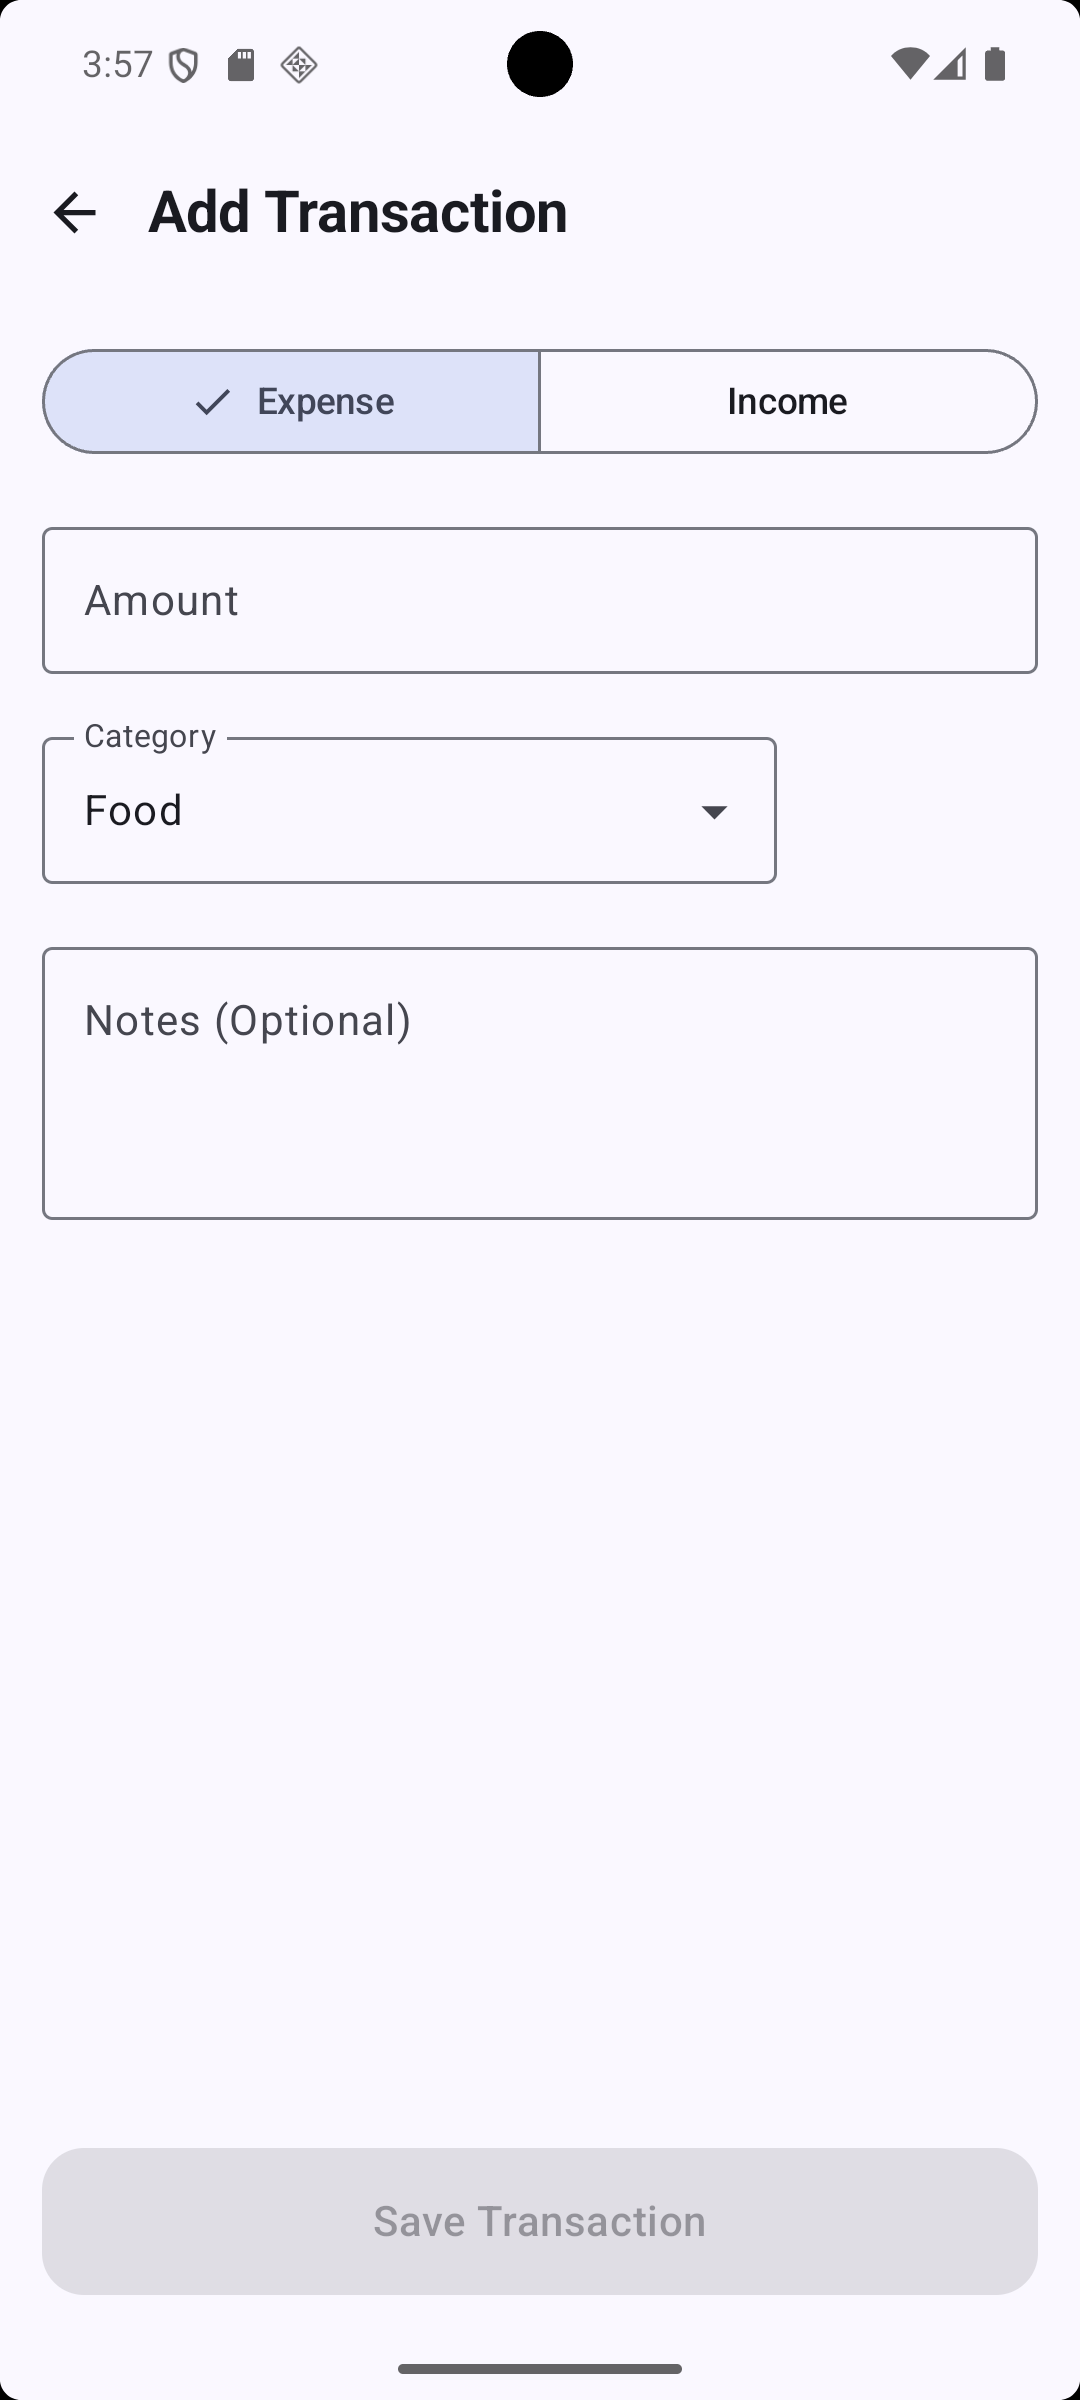
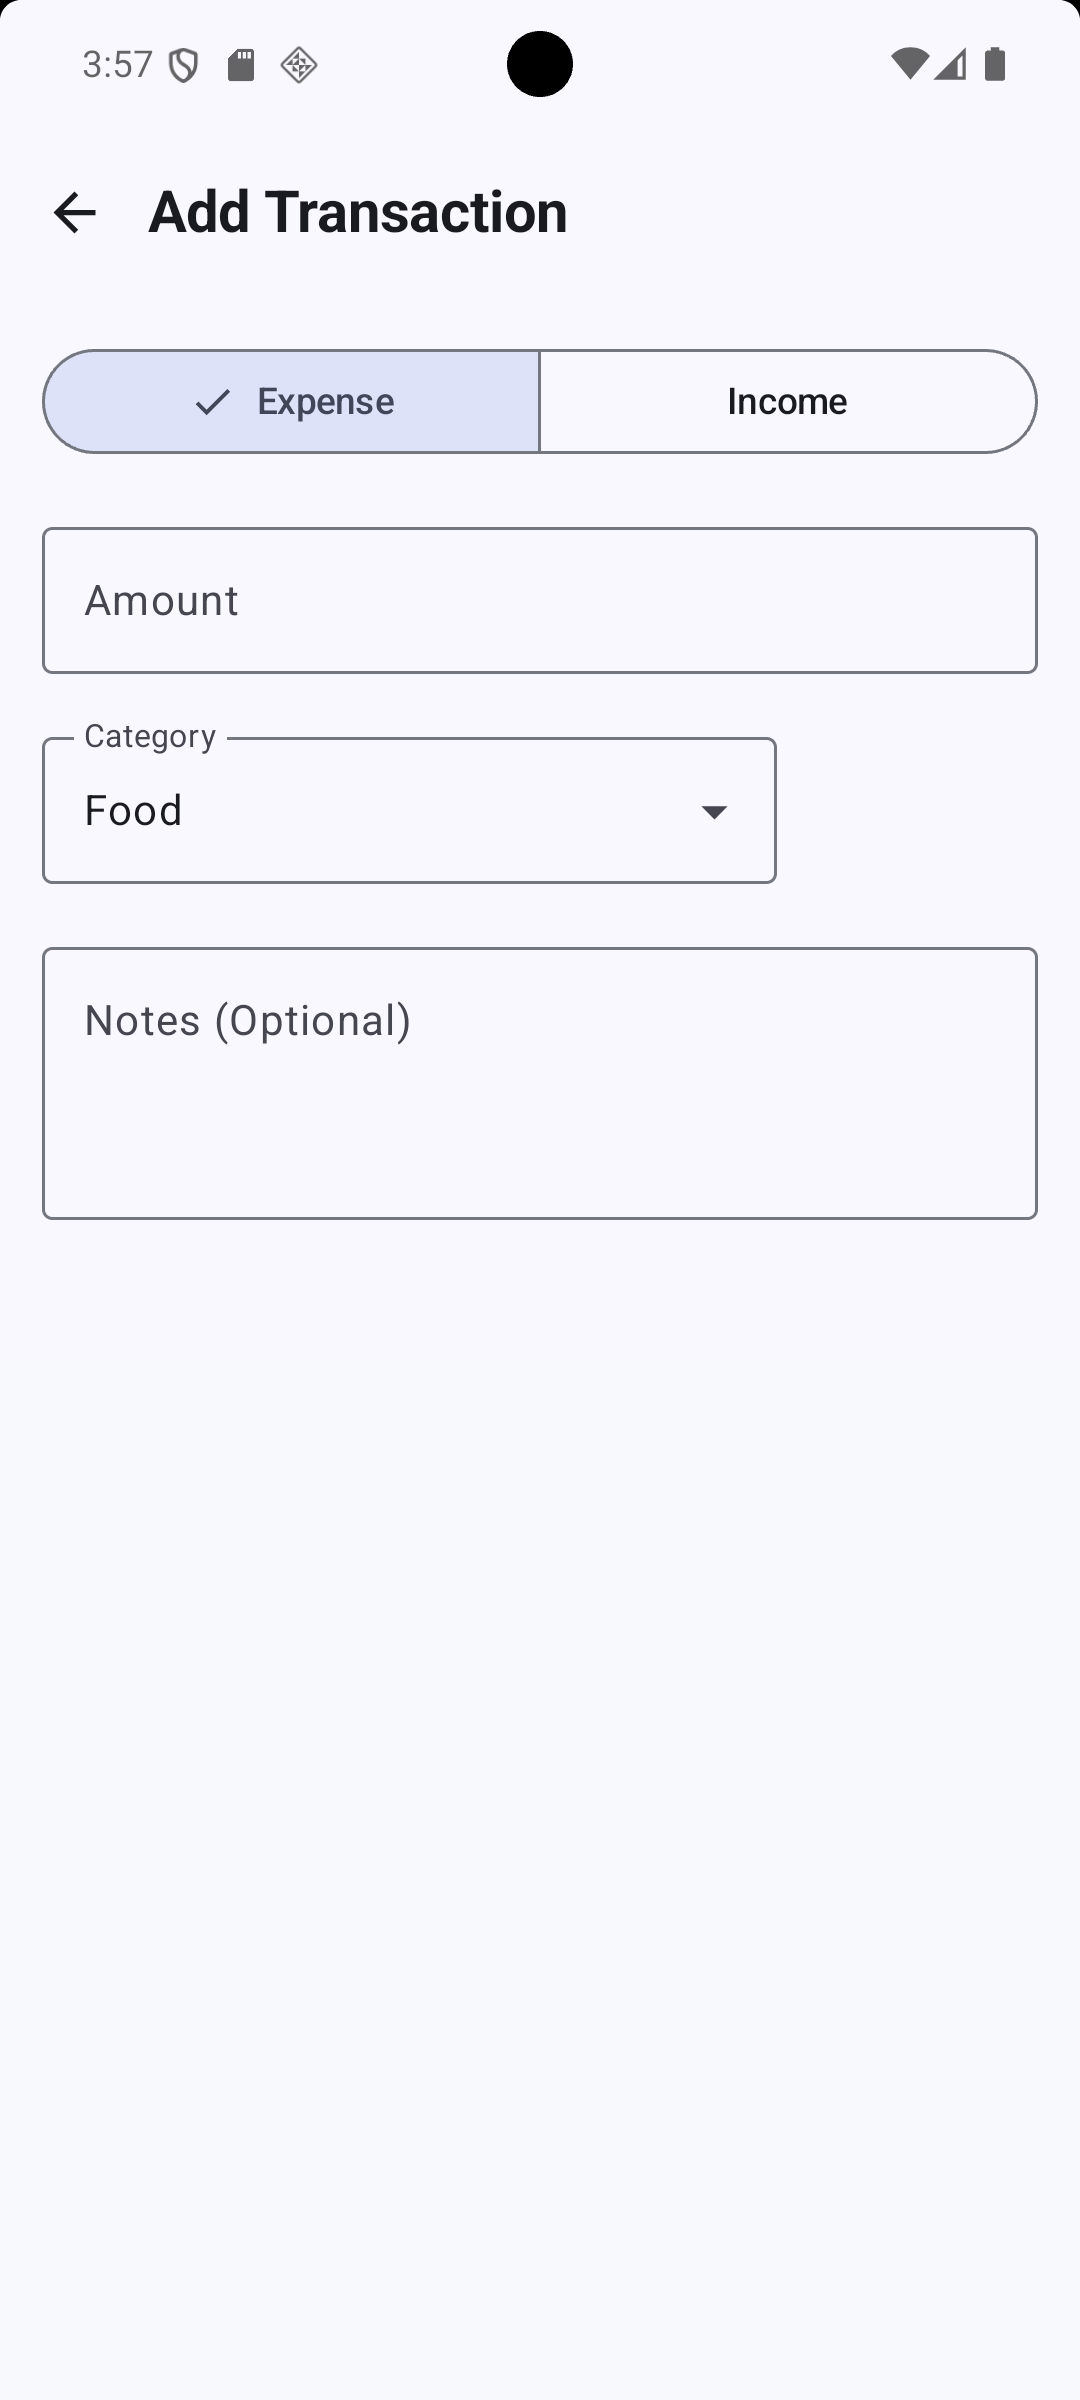
Fix README screenshot sizing and add demo GIF
- Crop empty space from add/edit and view-all screenshots (no stretch)

- Show screenshots with equal width in README

- Convert flowfidemo.webm to flowfidemo.gif for inline demo

Changed region(s): [[0.0306, 0.875, 0.9778, 1.0]]

diff --git a/README.md b/README.md
@@ -13,16 +13,25 @@ A fast, Material 3 personal finance app for tracking income and expenses. Built 
 
 ## Demo
 
-Watch the full walkthrough: **[flowfidemo.webm](docs/media/flowfidemo.webm)** (WebM, ~6 MB)
+<p align="center">
+  <img src="docs/media/flowfidemo.gif" alt="FlowFi app demo" width="400" />
+</p>
 
-> **Tip:** Open the video in a browser or Android Studio device preview. To create a GIF locally:  
-> `ffmpeg -i docs/media/flowfidemo.webm -vf "fps=8,scale=400:-1" -t 15 docs/media/flowfidemo.gif`
+<p align="center">
+  <sub>Also available as <a href="docs/media/flowfidemo.webm">flowfidemo.webm</a> (higher quality)</sub>
+</p>
 
 ## Screenshots
 
-| Dashboard | Add / Edit | View All |
-|:---:|:---:|:---:|
-| ![Dashboard](docs/images/dashboard.png) | ![Add transaction](docs/images/add_edit.png) | ![All transactions](docs/images/view_all.png) |
+<p align="center">
+  <img src="docs/images/dashboard.png" alt="Dashboard" width="260" />
+  <img src="docs/images/add_edit.png" alt="Add transaction" width="260" />
+  <img src="docs/images/view_all.png" alt="All transactions" width="260" />
+</p>
+
+<p align="center">
+  <sub>Dashboard · Add / Edit · View All</sub>
+</p>
 
 ## Features
 
